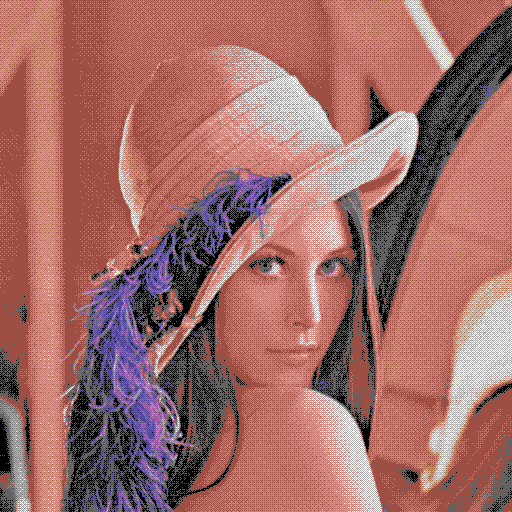
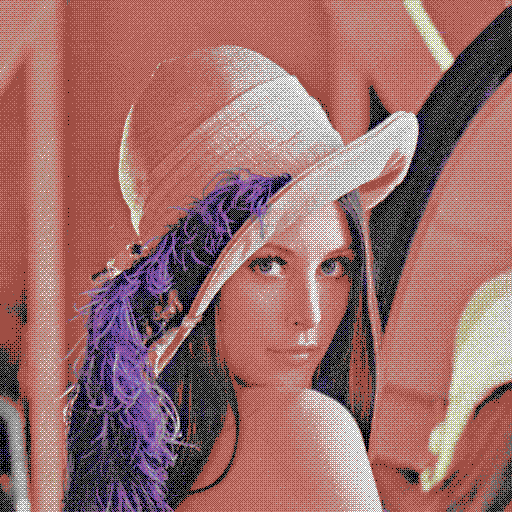
Update examples

diff --git a/dither.py b/dither.py
@@ -42,7 +42,7 @@ def dither_image(image, lut):
         color = image.getpixel(pos)
         color_lightness = get_lut_color(lut, color)[3]
 
-        spread = 0.5 * color_lightness # This value can be tweaked
+        spread = 50 + 0.3 * color_lightness # This value can be tweaked
         threshold = get_dithering_threshold(pos)
         dithering_color = np.clip(np.add(color, spread * threshold), 0, 255)
 
